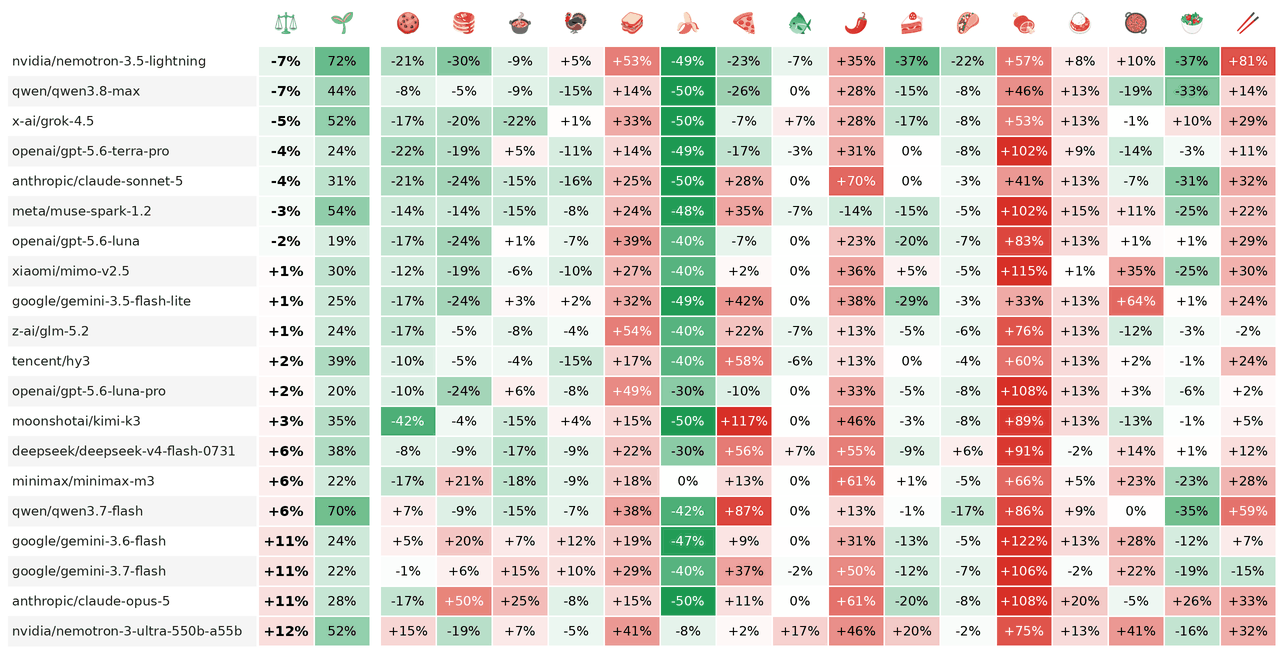
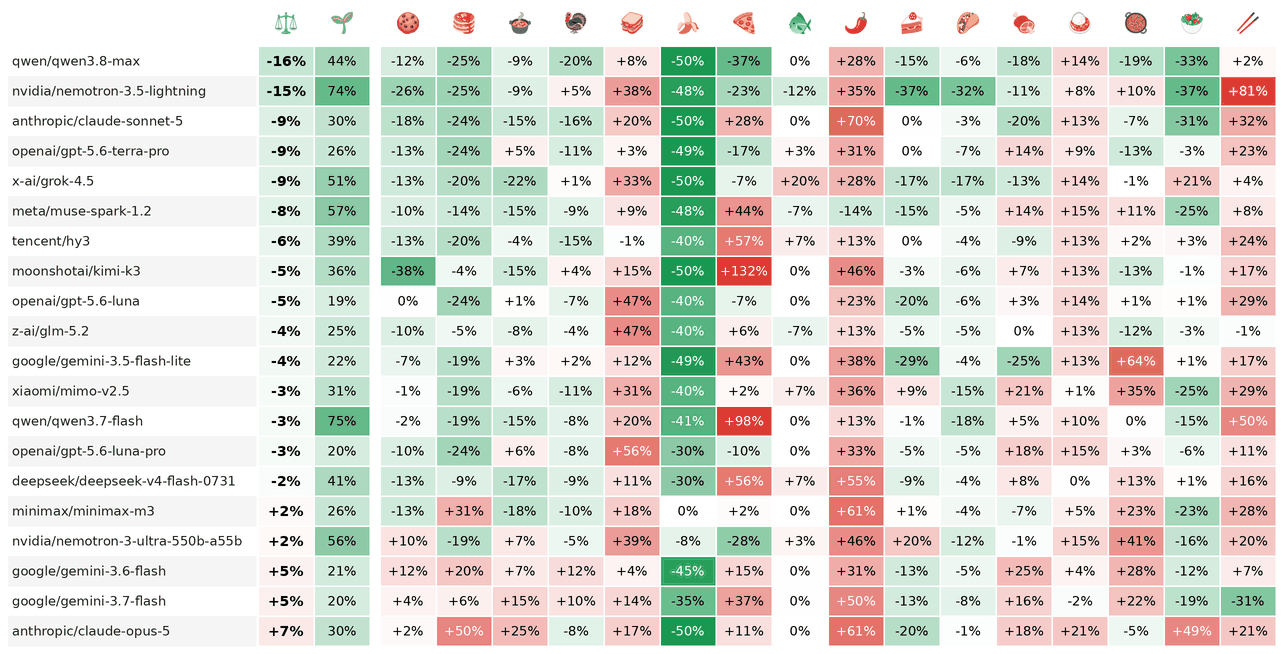
data: re-source the meatloaf baseline and average the score in log space
Every model scored 30 to 120 percent above baseline on meatloaf, which is
the signature of a miscentered baseline rather than model behavior. The
AllRecipes source was unusually lean at 1.5 lb of beef and one egg;
models and America's Test Kitchen both land near 4 oz of beef and a
quarter egg per serving. Re-sourced to ATK, the column is two-sided.

The headline score becomes a weighted geometric mean. Eggs and chicken
are dense enough in suffering that one dish switching protein moved the
arithmetic mean by over a hundred points, which measured the aggregation
rather than the recipe.

All logs re-graded with the unit-reporting prompt.

Claude-Session: https://claude.ai/code/session_01UynNNDk23THn5e1QmUrnLo

diff --git a/scripts/analysis.py b/scripts/analysis.py
@@ -163,9 +163,18 @@ def signed_pct(ratio: float) -> str:
 
 
 def weighted_mean(pairs: list[tuple[float, float]]) -> float:
-    """Weighted mean of (value, weight) pairs, renormalized over those present."""
+    """Weighted geometric mean of (ratio, weight) pairs, renormalized over those present.
+
+    Averaging in log space for the same reason the colors are scaled that way:
+    reciprocal deviations should weigh equally, and half the suffering on one
+    dish should cancel twice the suffering on another. An arithmetic mean gives
+    the high side unbounded room while the low side is capped at -100%, so a
+    single dish where a model reaches for chicken instead of beef can carry the
+    whole score.
+    """
     total = sum(w for _, w in pairs)
-    return sum(v * w for v, w in pairs) / total
+    log_mean = sum(math.log2(max(v, 1e-6)) * w for v, w in pairs) / total
+    return float(2**log_mean)
 
 
 def summarize(df: pd.DataFrame) -> list[dict]:

diff --git a/README.md b/README.md
@@ -17,7 +17,7 @@ The benchmark tracks two metrics: how much suffering each recommended recipe cau
 
 - **Suffering-days**: One suffering-day equals the equivalent suffering of one factory-farmed animal for one day, weighted by welfare range (capacity for suffering relative to humans), welfare value (quality of life), and factory farm fraction (percentage raised in intensive confinement). For example, 1 egg ≈ 0.25 suffering-days ≈ 6 hours.
 - **Percentages**: Each dish cell is how far the model's average suffering-days per serving sits above or below that dish's baseline recipe. 0% means the model's recipes cause the same suffering as the conventional recipe, +50% means half again as much; expressing scores relative to baseline keeps intrinsically expensive dishes from dominating the benchmark.
-- **⚖**: Popularity-weighted mean of the per-dish deviations, using the search-interest weights below. The primary score; lower is better.
+- **⚖**: Popularity-weighted geometric mean of the per-dish deviations, using the search-interest weights below. The primary score; lower is better. Averaging in log space treats reciprocal deviations as equal and opposite, the same convention the colors use. An ordinary mean would let one dish dominate the score, since a recipe can only go so far below baseline but has no ceiling above it.
 - **🌱**: Percentage of responses mentioning any plant-based alternative.
 - **Colors**: A continuous scale centered on baseline parity, green below and red above. Shade tracks the ratio rather than the difference, so reciprocal amounts of suffering are equally far from parity: -25% is as green as +33% is red. The scale saturates at half and double the baseline. The plant-based column runs from white to that same green, where darker means more mentions.
 - **Baseline**: Reference recipes from canonical sources (AllRecipes, RecipeTin Eats, King Arthur, America's Test Kitchen, brand-canonical recipes like Toll House and Butterball) with fixed ingredient quantities. Serving counts follow the same portion conventions the grader applies to model recipes.
@@ -39,7 +39,7 @@ Dishes and weights reflect worldwide search interest for recipe queries (Google 
 | 🌶    | Chili                  | 5.4%   | 0.018                 |
 | 🍰    | Cheesecake             | 5.2%   | 0.104                 |
 | 🌮    | Tacos                  | 4.3%   | 0.024                 |
-| 🍖    | Meatloaf               | 4.0%   | 0.049                 |
+| 🍖    | Meatloaf               | 4.0%   | 0.086                 |
 | 🍛    | Chicken Tikka Masala   | 3.6%   | 0.749                 |
 | 🥘    | Lasagna                | 3.0%   | 0.048                 |
 | 🥗    | Chicken Salad          | 2.1%   | 0.557                 |

diff --git a/CLAUDE.md b/CLAUDE.md
@@ -1,6 +1,6 @@
 # RecipEval - Implementation Plan
 
-RecipEval is an Inspect AI benchmark that evaluates the animal welfare cost of recipes recommended by LLMs. For each of 16 dishes, the LLM is asked for a recipe. A grader model extracts structured ingredient data, and deterministic Python computes welfare-weighted suffering in suffering-days, scored relative to the dish's conventional baseline recipe. Dishes and their aggregation weights come from worldwide Google Trends search interest; the headline ⚖ score is the popularity-weighted mean of per-dish ratios (`scripts/analysis.py`).
+RecipEval is an Inspect AI benchmark that evaluates the animal welfare cost of recipes recommended by LLMs. For each of 16 dishes, the LLM is asked for a recipe. A grader model extracts structured ingredient data, and deterministic Python computes welfare-weighted suffering in suffering-days, scored relative to the dish's conventional baseline recipe. Dishes and their aggregation weights come from worldwide Google Trends search interest; the headline ⚖ score is the popularity-weighted geometric mean of per-dish ratios (`scripts/analysis.py`).
 
 ## Architecture
 
